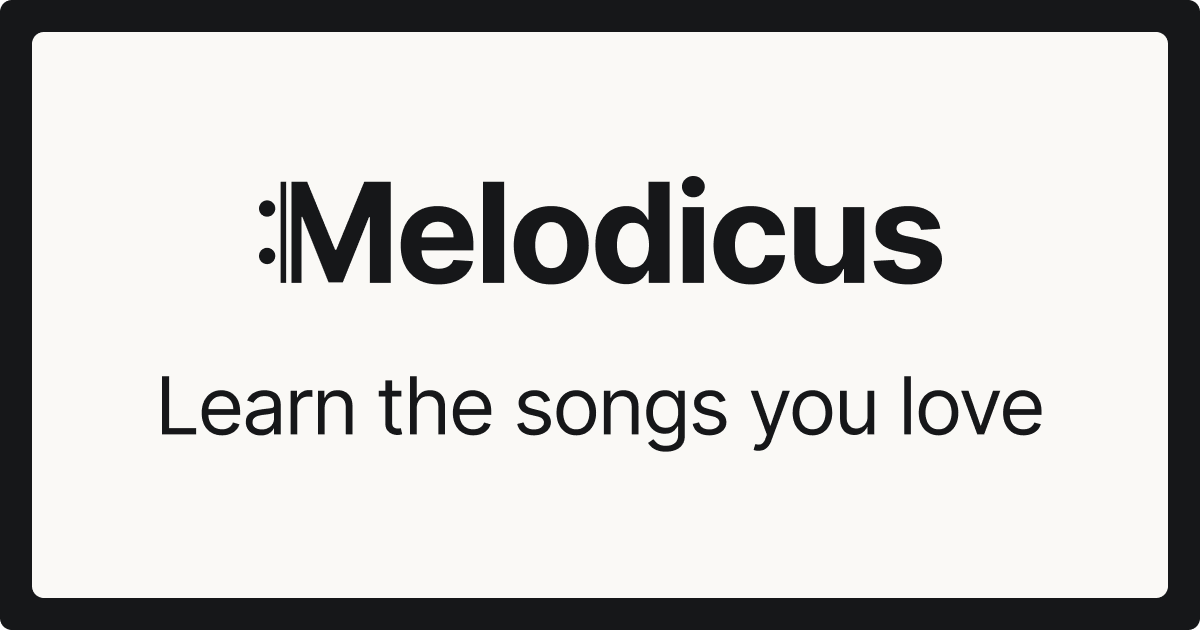
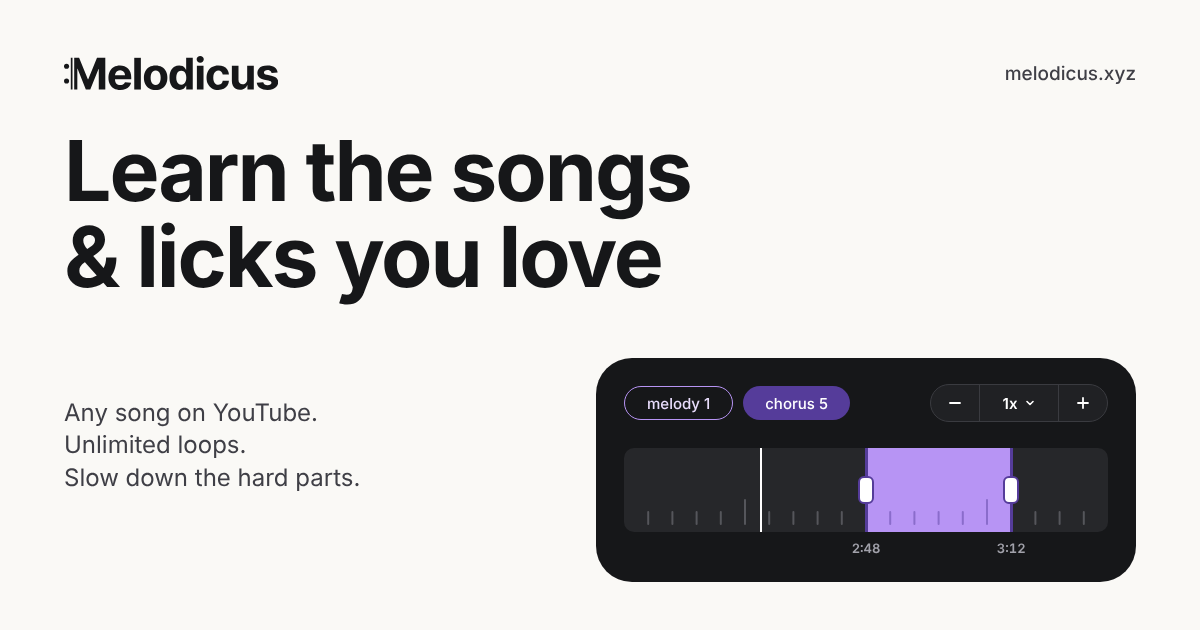
Redraws the social card from the new mockup
The card is now drawn from scripts/og-image/template.html and rendered
to public/og-image.png with node scripts/og-image/render.mjs.

Claude-Session: https://claude.ai/code/session_01UjMdoJKz6jWYRD4F7fRhwf

diff --git a/scripts/og-image/template.html b/scripts/og-image/template.html
@@ -1,0 +1,139 @@
+<!doctype html>
+<!--
+  The social card (public/og-image.png), 1200×630.
+  Edit here, then run: node scripts/og-image/render.mjs
+  The WORDMARK placeholder is replaced with public/wordmark.svg, recolored to ink.
+-->
+<html>
+<head>
+<meta charset="utf-8" />
+<style>
+  :root {
+    --ink: #161719;
+    --panel: #FAF9F6;
+    --muted: #3F3F46;
+    --purple-300: #B794F4;
+    --purple-700: #553C9A;
+    --card: #161719;
+    --track: #26272A;
+    --tick: #55565B;
+  }
+  * { box-sizing: border-box; margin: 0; padding: 0; }
+  html, body { width: 1200px; height: 630px; overflow: hidden; }
+  body {
+    position: relative;
+    background: var(--panel);
+    color: var(--ink);
+    font-family: 'Inter', sans-serif;
+    -webkit-font-smoothing: antialiased;
+  }
+  header {
+    position: absolute; top: 56px; left: 64px; right: 64px;
+    display: flex; align-items: center; justify-content: space-between;
+  }
+  header svg { height: 34px; width: auto; display: block; }
+  .url { font-size: 19px; font-weight: 500; color: var(--muted); }
+
+  h1 {
+    position: absolute; top: 128px; left: 64px; width: 1080px;
+    font-size: 84px; line-height: 1.02; font-weight: 700; letter-spacing: -0.025em;
+    text-wrap: balance;
+  }
+
+  .points {
+    position: absolute; left: 64px; bottom: 136px;
+    font-size: 24px; line-height: 1.35; color: var(--muted); list-style: none;
+  }
+
+  /* A slice of the player: loop pills, speed, and the timeline with a loop. */
+  .card {
+    position: absolute; right: 64px; bottom: 48px; width: 540px;
+    background: var(--card); border-radius: 36px; padding: 26px 28px 20px;
+    color: #fff;
+  }
+  .row { display: flex; align-items: center; justify-content: space-between; margin-bottom: 26px; }
+  .pills { display: flex; gap: 10px; }
+  .pill {
+    height: 34px; padding: 0 22px; border-radius: 999px;
+    display: flex; align-items: center; font-size: 15px; font-weight: 500;
+  }
+  .pill.outline { border: 1.5px solid var(--purple-300); color: #E9DDFC; }
+  .pill.filled { background: var(--purple-700); }
+  .speed {
+    height: 38px; display: flex; align-items: stretch;
+    border: 1px solid #3A3B40; border-radius: 999px; background: #202124; overflow: hidden;
+  }
+  .speed > div { display: flex; align-items: center; justify-content: center; }
+  .speed .step { width: 48px; }
+  .speed .rate { width: 80px; gap: 8px; font-size: 15px; font-weight: 600; border-left: 1px solid #3A3B40; border-right: 1px solid #3A3B40; }
+  .speed svg { display: block; }
+
+  .timeline { position: relative; height: 84px; background: var(--track); border-radius: 10px; overflow: hidden; }
+  .ticks { position: absolute; inset: 0; }
+  .loop { position: absolute; top: 0; bottom: 0; left: 50%; width: 30%; background: var(--purple-300); }
+  .edge { position: absolute; top: 0; bottom: 0; width: 3px; background: var(--purple-700); }
+  .grip {
+    position: absolute; top: 50%; width: 16px; height: 28px; margin: -14px 0 0 -8px;
+    background: #fff; border: 2.5px solid var(--purple-700); border-radius: 6px;
+  }
+  .playhead { position: absolute; top: 0; bottom: 0; left: 28%; width: 2px; background: #fff; }
+  .times { position: relative; height: 22px; margin-top: 8px; font-size: 13px; font-weight: 600; color: #A1A1AA; font-variant-numeric: tabular-nums; }
+  .times span { position: absolute; transform: translateX(-50%); }
+</style>
+</head>
+<body>
+  <header>
+    {{WORDMARK}}
+    <span class="url">melodicus.xyz</span>
+  </header>
+
+  <h1>Learn the songs &amp; licks you love</h1>
+
+  <ul class="points">
+    <li>Any song on YouTube.</li>
+    <li>Unlimited loops.</li>
+    <li>Slow down the hard parts.</li>
+  </ul>
+
+  <div class="card">
+    <div class="row">
+      <div class="pills">
+        <div class="pill outline">melody 1</div>
+        <div class="pill filled">chorus 5</div>
+      </div>
+      <div class="speed">
+        <div class="step"><svg width="14" height="14" viewBox="0 0 14 14"><path d="M2 7h10" stroke="#fff" stroke-width="1.8" stroke-linecap="round"/></svg></div>
+        <div class="rate">1x <svg width="10" height="10" viewBox="0 0 10 10"><path d="M2 3.5l3 3 3-3" fill="none" stroke="#fff" stroke-width="1.6" stroke-linecap="round" stroke-linejoin="round"/></svg></div>
+        <div class="step"><svg width="14" height="14" viewBox="0 0 14 14"><path d="M2 7h10M7 2v10" stroke="#fff" stroke-width="1.8" stroke-linecap="round"/></svg></div>
+      </div>
+    </div>
+    <div class="timeline">
+      <svg class="ticks" width="100%" height="100%" id="ticks"></svg>
+      <div class="loop"></div>
+      <svg class="ticks" width="100%" height="100%" id="ticks-over"></svg>
+      <div class="edge" style="left: calc(50% - 1.5px)"></div>
+      <div class="edge" style="left: calc(80% - 1.5px)"></div>
+      <div class="grip" style="left: 50%"></div>
+      <div class="grip" style="left: 80%"></div>
+      <div class="playhead"></div>
+    </div>
+    <div class="times"><span style="left: 50%">2:48</span><span style="left: 80%">3:12</span></div>
+  </div>
+
+  <script>
+    // Ruler ticks along the bottom of the track: a tall one every fifth.
+    const W = 484, H = 84, N = 20;
+    for (const [id, color] of [['ticks', '#55565B'], ['ticks-over', 'rgba(85, 60, 154, 0.45)']]) {
+      const svg = document.getElementById(id);
+      let d = '';
+      for (let i = 1; i < N; i++) {
+        const x = (W / N) * i;
+        if (id === 'ticks-over' && (x < W * 0.5 + 4 || x > W * 0.8 - 4)) continue;
+        const h = i % 5 === 0 ? 24 : 12;
+        d += `M${x} ${H - 8}V${H - 8 - h}`;
+      }
+      svg.innerHTML = `<path d="${d}" stroke="${color}" stroke-width="2" stroke-linecap="round"/>`;
+    }
+  </script>
+</body>
+</html>
